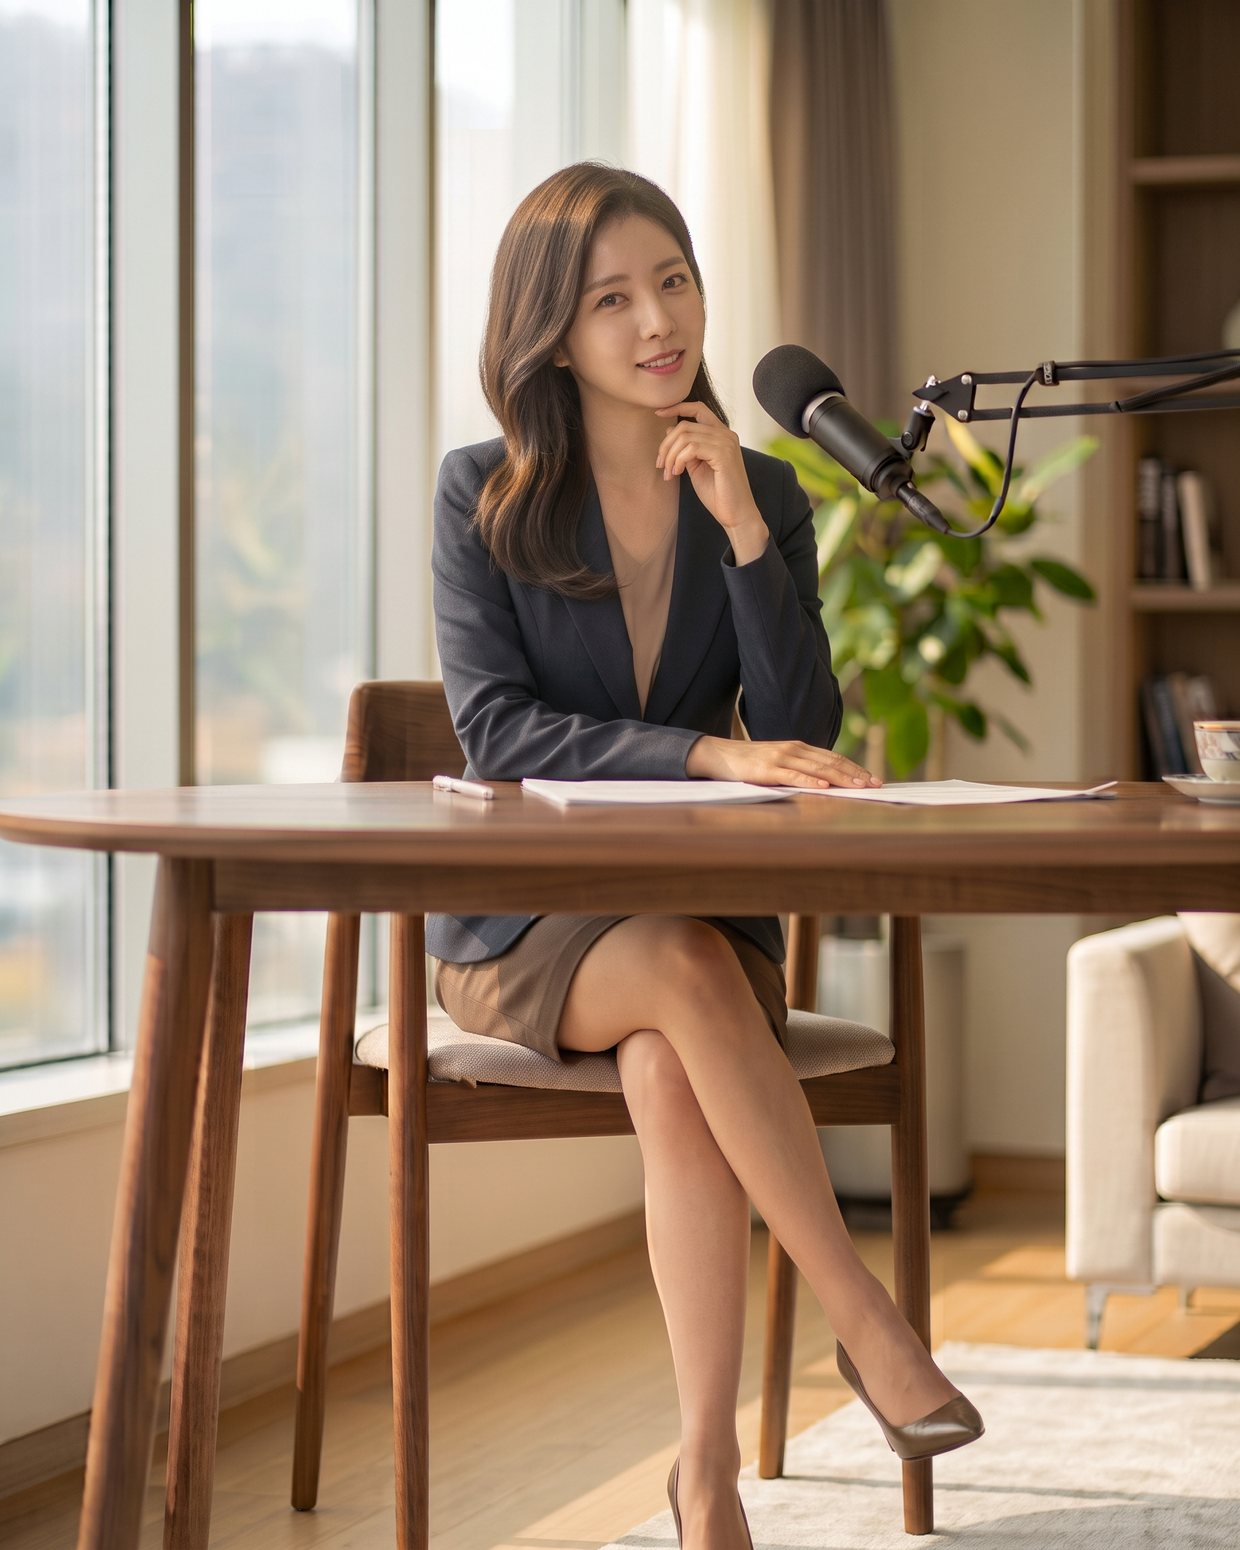
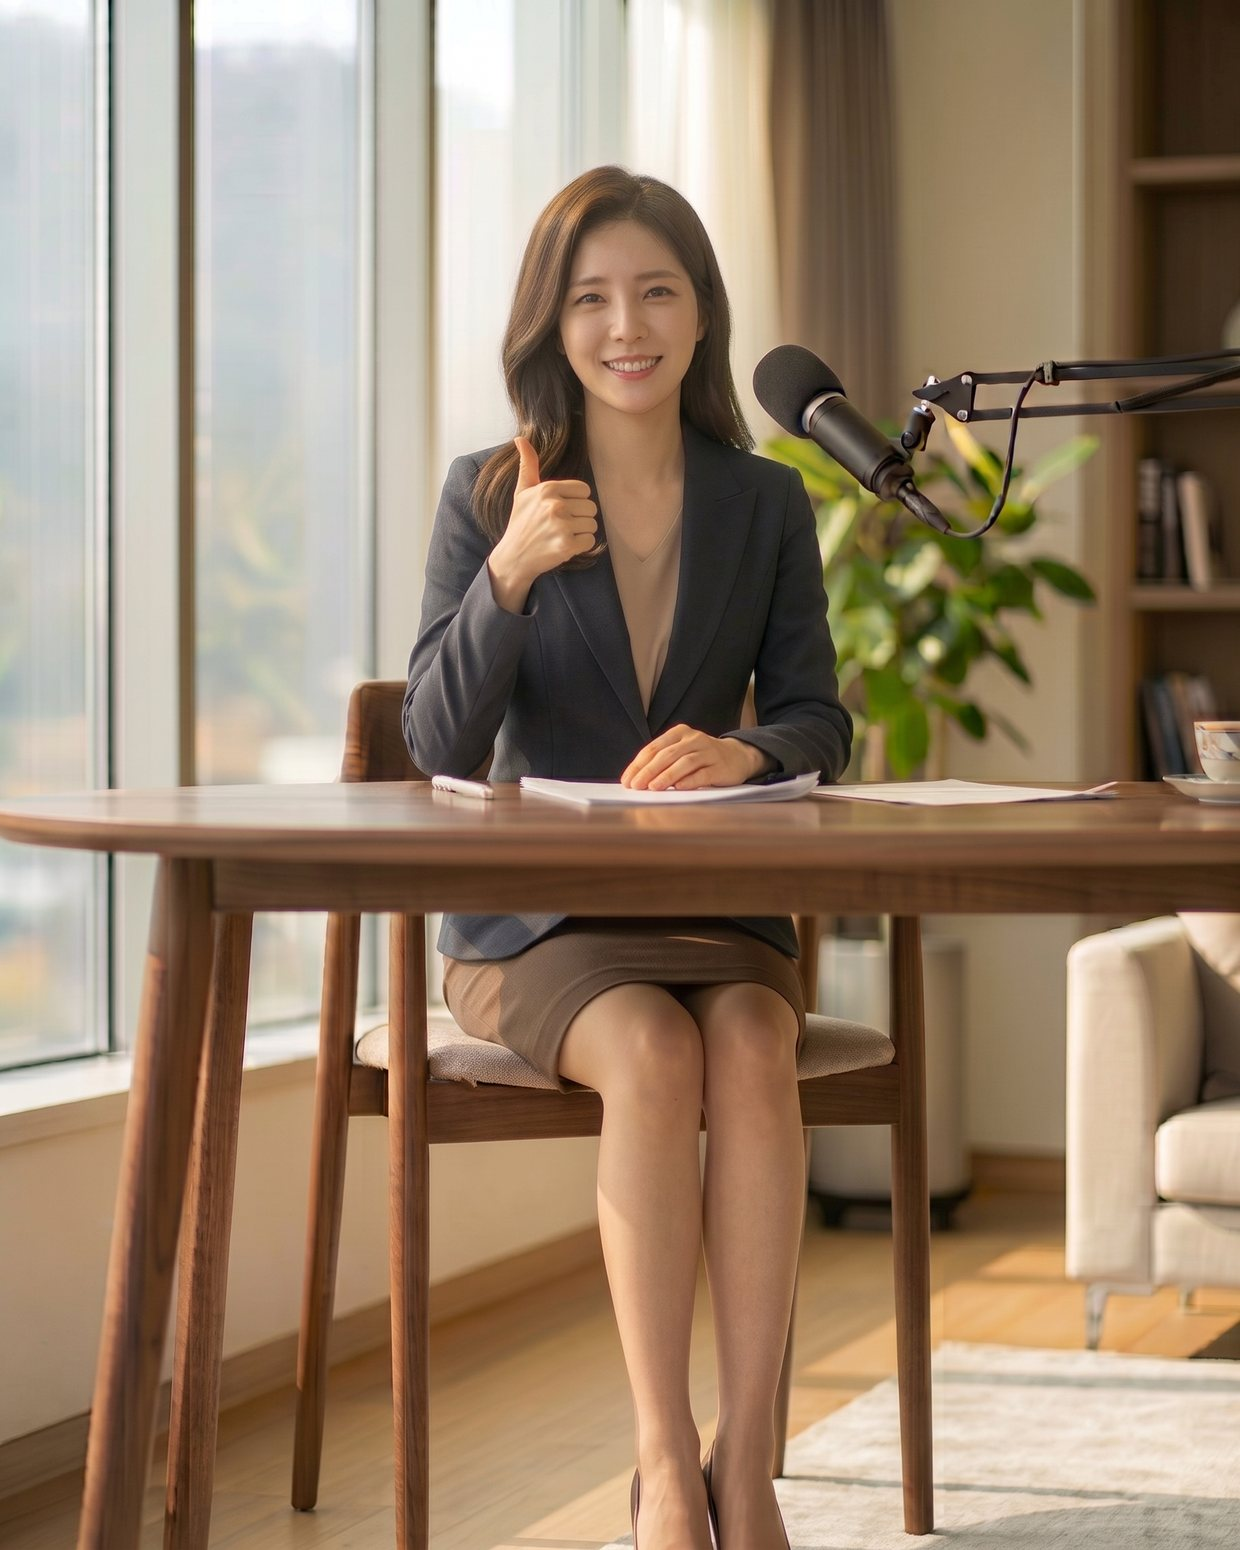
진행자 사진: 윤미소 아침 두 컷 교체 + 서한결 아침 아홉 장 새것으로
- 윤미소: smile(손 모으고 정면), thumb(엄지) 새로 받음
- 서한결 아침 아홉 장 모두 1856x2304 원본에서
- 엄지 장면을 다시 쓸 수 있게 TAGS 에 되살림

Claude-Session: https://claude.ai/code/session_01BaSwwFaacEUtQjFXGJUdho

diff --git a/tools/opening.py b/tools/opening.py
@@ -20,9 +20,8 @@ OTHER = 'hangyeol' if HOST == 'miso' else 'miso'
 NAME = {'miso': '윤미소', 'hangyeol': '서한결'}
 WD = '월화수목금토일'[D.weekday()]
 SLOTS = ['morning', 'noon', 'evening']
-# 사진이 실제로 있는 장면만 쓴다. 사연을 없앤 뒤 surprise·moved·secret 은 쓰지 않고,
-# thumb(엄지)은 새 사진이 오면 되살린다 (2026-10-19).
-TAGS = ['read', 'smile', 'laugh', 'talk', 'curious', 'delight']
+# 사진이 실제로 있는 장면만 쓴다. 사연을 없앤 뒤 surprise·moved·secret 은 쓰지 않는다 (2026-10-19).
+TAGS = ['read', 'smile', 'laugh', 'talk', 'curious', 'delight', 'thumb']
 VOICE = {'miso': 'Callirrhoe', 'hangyeol': 'Charon'}
 PITCH = {'miso': 195, 'hangyeol': None}   # 미소는 고른 견본 높이(195Hz)에 맞춘다
 PROFILE = {
